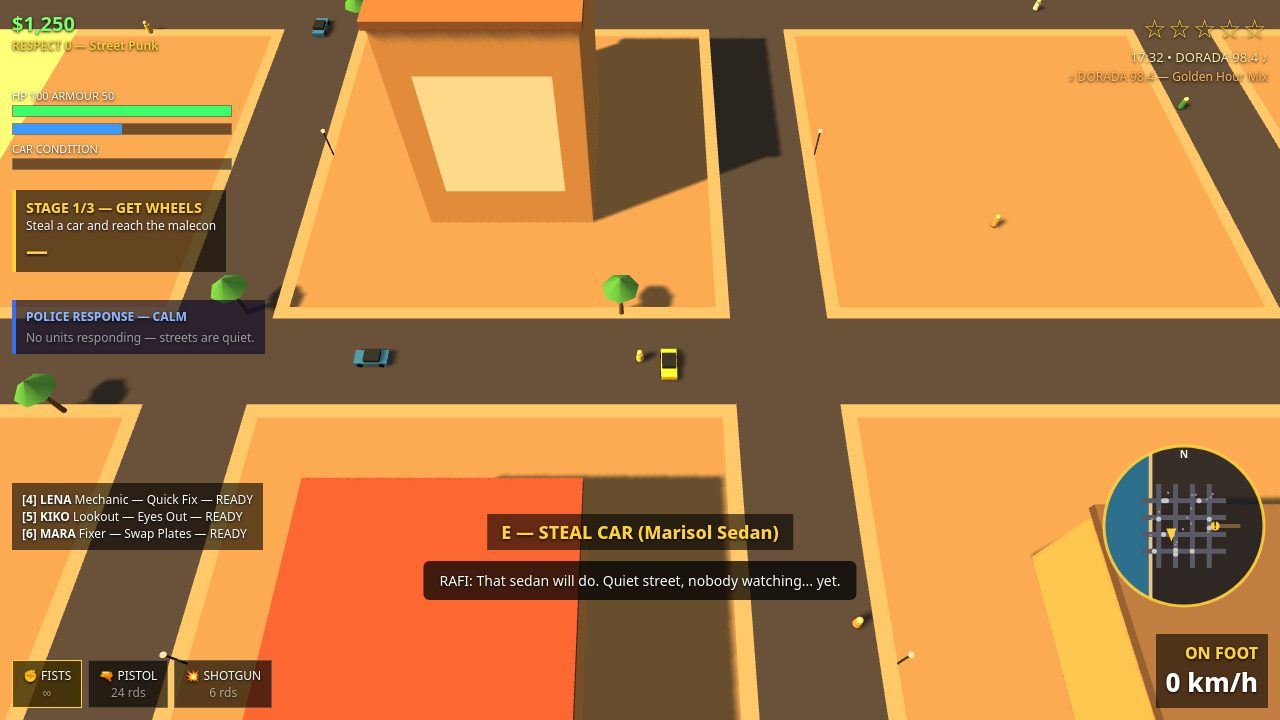
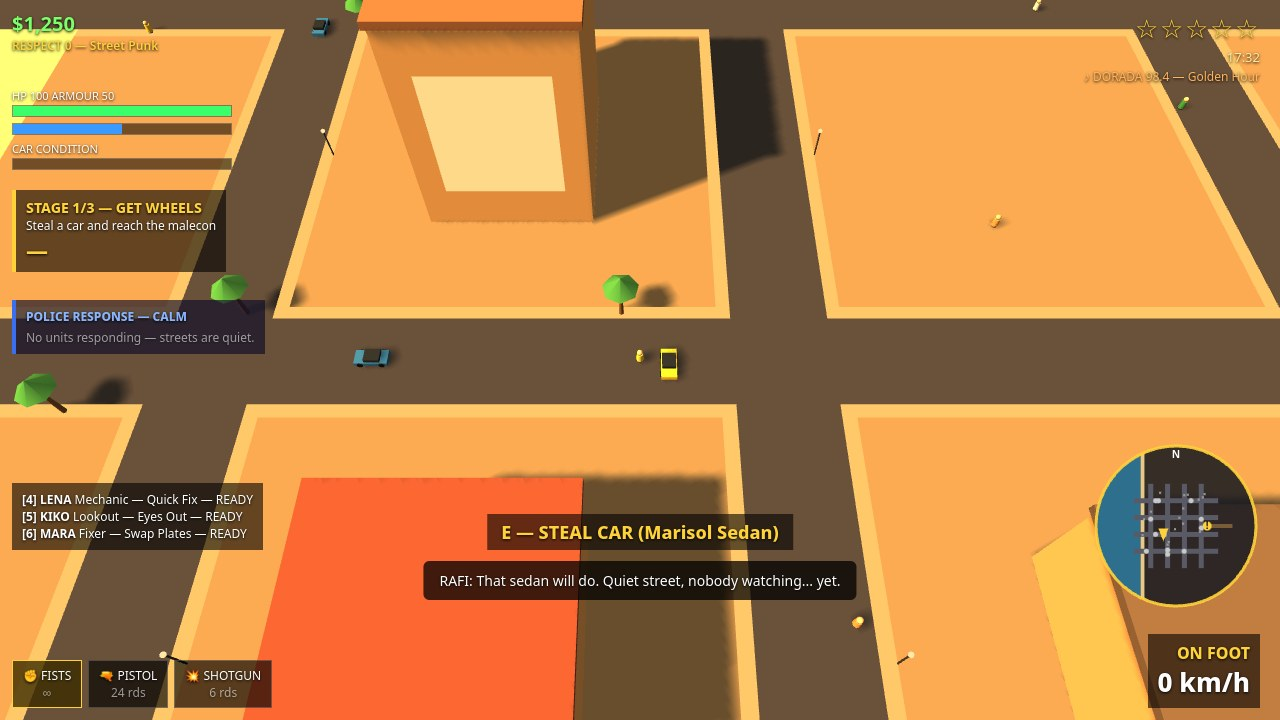
Round 3 polish: dense chaos cover, visible heli + explosion, real roadblock, HUD margin fix, honest title

diff --git a/game/src/render3d.js b/game/src/render3d.js
@@ -4,6 +4,9 @@ import { CFG, PAL } from './config.js';
 
 let renderer, scene, camera, sun, hemi, spotLight, heliLight;
 const dyn = new Map(); // id -> THREE.Group
+const fireMap = new Map(); // car id -> flame/smoke/scorch group (persistent: the
+// particle burst alone is gone a second after the blast, so a frozen
+// screenshot — and a burning wreck in play — would show no fire at all)
 let particlePts = null, particleGeo = null;
 const MAXP = 400;
 const parts = [];
@@ -70,15 +73,15 @@ export function createRenderer(canvas) {
   sun.shadow.camera.top = 260; sun.shadow.camera.bottom = -260;
   sun.shadow.camera.far = 500;
   scene.add(sun);
-  spotLight = new THREE.SpotLight(0xffffff, 0, 120, 0.35, 0.5, 1);
+  spotLight = new THREE.SpotLight(0xffffff, 0, 70, 0.22, 0.35, 1);
   scene.add(spotLight); scene.add(spotLight.target);
-  heliLight = new THREE.PointLight(0xffffff, 0, 60);
+  heliLight = new THREE.PointLight(0xffffff, 0, 35);
   scene.add(heliLight);
   // particles
   particleGeo = new THREE.BufferGeometry();
   particleGeo.setAttribute('position', new THREE.BufferAttribute(new Float32Array(MAXP * 3), 3));
   particleGeo.setAttribute('color', new THREE.BufferAttribute(new Float32Array(MAXP * 3), 3));
-  particlePts = new THREE.Points(particleGeo, new THREE.PointsMaterial({ size: 3.0, vertexColors: true }));
+  particlePts = new THREE.Points(particleGeo, new THREE.PointsMaterial({ size: 4.0, vertexColors: true, map: particleSprite(), transparent: true, depthWrite: false }));
   particlePts.frustumCulled = false;
   scene.add(particlePts);
   for (let i = 0; i < 40; i++) {
@@ -88,6 +91,17 @@ export function createRenderer(canvas) {
     scene.add(s); skidPool.push(s);
   }
   return { render };
+}
+
+function particleSprite() {
+  const cv = document.createElement('canvas'); cv.width = 64; cv.height = 64;
+  const ctx = cv.getContext('2d');
+  const g = ctx.createRadialGradient(32, 32, 0, 32, 32, 32);
+  g.addColorStop(0, 'rgba(255,255,255,1)');
+  g.addColorStop(0.4, 'rgba(255,255,255,0.8)');
+  g.addColorStop(1, 'rgba(255,255,255,0)');
+  ctx.fillStyle = g; ctx.fillRect(0, 0, 64, 64);
+  return new THREE.CanvasTexture(cv);
 }
 
 function buildStatic(S) {
@@ -157,7 +171,9 @@ export function spawnExplosion(x, z, n, rng) {
   for (let i = 0; i < n && parts.length < MAXP; i++) {
     const a = R() * Math.PI * 2, sp = 4 + R() * 14;
     parts.push({
-      x, y: 1 + R() * 2, z,
+      // born already spread over a few units: a frozen frame 0.1s after the
+      // blast would otherwise show one tight square cluster, not a fireball
+      x: x + (R() - 0.5) * 6, y: 1 + R() * 2, z: z + (R() - 0.5) * 6,
       vx: Math.cos(a) * sp, vy: 6 + R() * 12, vz: Math.sin(a) * sp,
       life: 0.7 + R() * 0.8,
       color: PAL.explosion[i % PAL.explosion.length],
@@ -167,6 +183,23 @@ export function spawnExplosion(x, z, n, rng) {
 export function addSkid(x, z, angle) {
   const s = skidPool[skidIdx++ % skidPool.length];
   s.position.set(x, 0.06, z); s.rotation.z = -angle; s.visible = true;
+}
+
+function fireGroup() {
+  const g = new THREE.Group();
+  const flame = new THREE.Mesh(new THREE.ConeGeometry(1.9, 4.6, 8),
+    new THREE.MeshBasicMaterial({ color: 0xff7a1a }));
+  flame.position.y = 2.6; g.add(flame);
+  const core = new THREE.Mesh(new THREE.ConeGeometry(1.1, 3.0, 8),
+    new THREE.MeshBasicMaterial({ color: 0xffd23a }));
+  core.position.y = 2.2; g.add(core);
+  const smoke = new THREE.Mesh(new THREE.SphereGeometry(2.3, 10, 8),
+    new THREE.MeshBasicMaterial({ color: 0x2a2a2a, transparent: true, opacity: 0.5 }));
+  smoke.position.y = 6.0; smoke.scale.y = 1.5; g.add(smoke);
+  const scorch = new THREE.Mesh(new THREE.CircleGeometry(3.6, 20),
+    new THREE.MeshBasicMaterial({ color: 0x111111, transparent: true, opacity: 0.45 }));
+  scorch.rotation.x = -Math.PI / 2; scorch.position.y = 0.08; g.add(scorch);
+  return g;
 }
 
 function syncDyn(S) {
@@ -181,12 +214,18 @@ function syncDyn(S) {
   if (!dyn.has('player')) dyn.set('player', personMesh(PAL.playerShirt, 0x2a3a5a));
   place('player', dyn.get('player'), S.player.x, S.player.z, S.player.angle, 0);
   dyn.get('player').visible = S.player.onFoot;
-  // cars (wrecks stay visible, darkened)
+  // cars (wrecks stay visible, darkened, with a persistent fireball)
   for (const c of S.cars) {
     if (!dyn.has(c.id)) dyn.set(c.id, carMesh(c.color, c.police));
     const g = dyn.get(c.id);
     place(c.id, g, c.x, c.z, c.angle, 0);
     if (c.burning || c.dead) g.children[0].material.color.setHex(0x2a2a2a);
+    if (c.burning || c.dead) {
+      if (!fireMap.has(c.id)) { const fg = fireGroup(); scene.add(fg); fireMap.set(c.id, fg); }
+      fireMap.get(c.id).position.set(c.x, 0, c.z);
+    } else if (fireMap.has(c.id)) {
+      scene.remove(fireMap.get(c.id)); fireMap.delete(c.id);
+    }
   }
   // pedestrians
   for (const p of S.peds) {
@@ -197,27 +236,36 @@ function syncDyn(S) {
   if (S.heli.active) {
     if (!dyn.has('heli')) {
       const h = new THREE.Group();
-      h.add(box(4, 1.6, 8, 0x2a2a2a, 0, 0, 0, true));
-      // rotor: translucent blur bar + faint disc, so a frozen frame never shows
-      // a solid black scratch across the player car
-      const rotorMat = new THREE.MeshBasicMaterial({ color: 0x222222, transparent: true, opacity: 0.45 });
-      const rotor = new THREE.Mesh(new THREE.BoxGeometry(12, 0.15, 0.8), rotorMat);
+      // police heli: dark navy body + white roof stripe + blue glass + tail
+      // boom, so it reads as a helicopter from above. The old pale-grey box
+      // rendered as a cream slab and blended into roofs and sand.
+      h.add(box(4, 1.6, 6, 0x1a2a4a, 0, 0, 1, true));
+      h.add(box(3.2, 1.0, 1.8, 0x9fd8ff, 0, 0.4, 3.2, false));
+      h.add(box(2.0, 0.25, 5.0, 0xffffff, 0, 0.9, 0.5, false));
+      h.add(box(1.0, 0.8, 7, 0x1a2a4a, 0, 0.1, -5.5, true));
+      h.add(box(0.3, 2.0, 1.6, 0x1a2a4a, 0, 0.6, -8.6, false));
+      // rotor: stronger blur bar + disc, so the rotor reads at jury size
+      const rotorMat = new THREE.MeshBasicMaterial({ color: 0x222222, transparent: true, opacity: 0.6 });
+      const rotor = new THREE.Mesh(new THREE.BoxGeometry(13, 0.15, 0.8), rotorMat);
       rotor.position.set(0, 1.1, 0); rotor.name = 'rotor'; h.add(rotor);
-      const disc = new THREE.Mesh(new THREE.CircleGeometry(6, 24),
-        new THREE.MeshBasicMaterial({ color: 0x222222, transparent: true, opacity: 0.12, side: THREE.DoubleSide }));
+      const disc = new THREE.Mesh(new THREE.CircleGeometry(6.5, 24),
+        new THREE.MeshBasicMaterial({ color: 0x222222, transparent: true, opacity: 0.18, side: THREE.DoubleSide }));
       disc.rotation.x = -Math.PI / 2; disc.position.y = 1.12; h.add(disc);
-      h.add(box(1, 1, 1, 0xffffff, 0, -1, 3, false));
       dyn.set('heli', h);
     }
     const h = dyn.get('heli');
-    place('heli', h, S.heli.x, S.heli.z, S.heli.angle, 26);
+    // heli flies at 20, not 26: at 26 it sits above the camera's top edge
+    // (view axis ~60° down, half-FOV 25°) and is invisible in every shot
+    place('heli', h, S.heli.x, S.heli.z, S.heli.angle, 20);
     const rotor = h.getObjectByName('rotor');
     if (rotor) rotor.rotation.y += 0.9;
-    spotLight.position.set(S.heli.x, 26, S.heli.z);
+    spotLight.position.set(S.heli.x, 20, S.heli.z);
     spotLight.target.position.set(S.player.x, 0, S.player.z);
-    spotLight.intensity = 2.2;
-    heliLight.position.set(S.heli.x, 24, S.heli.z);
-    heliLight.intensity = 1.2;
+    // small, dim pool: the old 2.2 / wide cone bleached the player car
+    // to a white blob at wanted 5
+    spotLight.intensity = 0.9;
+    heliLight.position.set(S.heli.x, 18, S.heli.z);
+    heliLight.intensity = 0.45;
   } else {
     spotLight.intensity = 0; heliLight.intensity = 0;
     if (dyn.has('heli')) dyn.get('heli').visible = false;

diff --git a/game/src/shots.js b/game/src/shots.js
@@ -94,34 +94,44 @@ export function stageShot(name, S) {
   S.dialog = 'LENA: Two minutes left on the clock, Rafi — and the whole CDPD is behind you!';
   S.dialogTimer = 99;
   if (name === 'chaos') {
-    driveToward(S, CFG.maleconX - 4, 44, 60 * 12);
-    // final framing on the malecon: Rafi in the car at speed, a wreck exploding
-    // beside him, chase units closing in, heli spotlight overhead
+    // dense-street staging: the x=40 / z=40 intersection, buildings on three
+    // corners, no empty sand in frame, camera close — the old malecon framing
+    // was ~60% bare sand with Rafi a speck inside the spotlight blob
     if (!S.playerCar) stealNearest(S);
     const pc = S.playerCar;
     if (pc) {
-      pc.x = 140; pc.z = 36; pc.angle = Math.PI / 2; pc.speed = 20; pc.health = 62;
+      pc.x = 28; pc.z = 40; pc.angle = Math.PI / 2; pc.speed = 18; pc.health = 62;
       S.player.x = pc.x; S.player.z = pc.z; S.player.angle = pc.angle;
     }
     const victim = S.cars.find((c) => !c.dead && !c.police && c !== S.playerCar);
     if (victim) {
-      victim.x = 152; victim.z = 50; victim.angle = 0.4;
+      victim.x = 45; victim.z = 35; victim.angle = 0.3; victim.speed = 0;
       explodeCar(S, victim);
       spawnExplosion(victim.x, victim.z, 90, S.rng);
     }
+    // traffic in frame: oncoming car on the z=40 road, cross traffic on x=40
+    const extras = S.cars.filter((c) => !c.dead && !c.police && c !== S.playerCar && c !== victim);
+    if (extras[0]) { extras[0].x = 60; extras[0].z = 40; extras[0].angle = -Math.PI / 2; extras[0].speed = 10; }
+    if (extras[1]) { extras[1].x = 40; extras[1].z = 64; extras[1].angle = 0; extras[1].speed = 8; }
+    if (extras[2]) { extras[2].x = 40; extras[2].z = 16; extras[2].angle = Math.PI; extras[2].speed = 8; }
     S.wanted = 5;
     S.stage = 2; S.stageTimer = 114;
     S.heli.active = true;
-    S.heli.x = S.player.x + 12; S.heli.z = S.player.z - 10;
-    // two chase units right behind Rafi so the pursuit reads in frame
-    const chasers = S.police.filter((c) => c.role !== 'roadblock' && !c.dead).slice(0, 2);
-    chasers.forEach((c, i) => { c.x = 122 + i * 4; c.z = 28 + i * 18; c.angle = Math.PI / 2; c.speed = 16; });
+    // close overhead, inside the camera's top edge (frustum check: at the old
+    // +12/-16 offset the heli sat above the frame and never showed)
+    S.heli.x = S.player.x + 6; S.heli.z = S.player.z - 8;
+    // four chase units closing in, so the pursuit reads in frame (the panel
+    // lists four units — all four should be visible, not two near + two 100m out)
+    const chasers = S.police.filter((c) => c.role !== 'roadblock' && !c.dead).slice(0, 4);
+    [[10, 40], [14, 31], [6, 49], [22, 28]].forEach(([x, z], i) => {
+      const c = chasers[i]; if (!c) return;
+      c.x = x; c.z = z; c.angle = Math.PI / 2; c.speed = 16;
+    });
     S.money = 48250;
     S.player.health = 78; S.player.armour = 35;
-    // frame the action: look south-east of the player so Rafi sits upper-left
-    // and the explosion sits near the centre of the frame, clear of the dialog bar
-    S.cam.x = S.player.x + 12; S.cam.z = S.player.z + 25;
     settle(S, 2);
+    // camera LAST: settle() drifts it toward the player via updateCamera
+    S.cam.x = 36; S.cam.z = 46; S.cam.height = 58; S.cam.back = 34;
     return;
   }
   if (name === 'roadblock') {
@@ -130,7 +140,6 @@ export function stageShot(name, S) {
     S.dialogTimer = 99;
     S.wanted = 5;
     S.heli.active = true;
-    S.heli.x = S.player.x + 10; S.heli.z = S.player.z - 8;
     S.muzzle = 0.08;
     S.weapons[1].ammo = 9;
     S.weaponIdx = 1;
@@ -140,25 +149,36 @@ export function stageShot(name, S) {
     driveRoute(S, [[148, 0]], 60 * 10);
     // final framing at the pier mouth: Rafi's car facing the roadblock, pistol out,
     // muzzle flash frozen, heli spotlight overhead, Don Celso's line on screen.
-    // Camera sits close over the roadblock so the three units fill the centre
-    // of the frame instead of reading as distant specks.
     if (!S.playerCar) stealNearest(S);
     const pc = S.playerCar;
     if (pc) {
-      pc.x = 132; pc.z = 0; pc.angle = Math.PI / 2; pc.speed = 14; pc.health = 38;
+      pc.x = 130; pc.z = 0; pc.angle = Math.PI / 2; pc.speed = 12; pc.health = 38;
       S.player.x = pc.x; S.player.z = pc.z; S.player.angle = pc.angle;
     }
     S.player.health = 46; S.player.armour = 12;
+    // a real roadblock: a solid wall of four CDPD units side by side across
+    // the pier-mouth road (z -13..13), noses across the road — the old
+    // diagonal scatter (x stepped with z) read as parked cars, not a block
     const blocks = S.police.filter((c) => c.role === 'roadblock' && !c.dead);
-    blocks.forEach((c, i) => {
-      c.x = 150 + (i % 2) * 4; c.z = -8 + i * 8; c.angle = Math.PI / 2; c.speed = 0;
+    const chasers = S.police.filter((c) => c.role !== 'roadblock' && !c.dead);
+    while (blocks.length < 4 && chasers.length) {
+      const c = chasers.shift();
+      c.role = 'roadblock'; c.blocking = true;
+      c.unit = 'CDPD-58'; // unit names cycle over 6 spawns; a converted chaser
+      blocks.push(c); // would otherwise duplicate a name in the panel
+    }
+    blocks.slice(0, 4).forEach((c, i) => {
+      c.x = 152; c.z = -10.5 + i * 7; c.angle = 0; c.speed = 0; c.blocking = true;
     });
-    const chasers = S.police.filter((c) => c.role !== 'roadblock' && !c.dead).slice(0, 2);
-    chasers.forEach((c, i) => { c.x = 118 + i * 6; c.z = -14 + i * 28; c.angle = Math.PI / 2; });
+    // remaining chasers close in behind Rafi
+    chasers.slice(0, 2).forEach((c, i) => { c.x = 114 + i * 4; c.z = -6 + i * 12; c.angle = Math.PI / 2; c.speed = 14; });
+    // roadblock units first, so the response panel names the block, not chasers
+    S.police.sort((a, b) => (a.role === 'roadblock' ? 0 : 1) - (b.role === 'roadblock' ? 0 : 1));
+    S.heli.x = 132; S.heli.z = -6; // right over Rafi on open road, clear of roofs
     S.muzzle = 5;
-    // frame the action: look east so Rafi sits left and the roadblock fills the centre
-    S.cam.x = 146; S.cam.z = 0; S.cam.height = 68; S.cam.back = 42;
     settle(S, 2);
+    // camera LAST: settle() drifts it toward the player via updateCamera
+    S.cam.x = 144; S.cam.z = 2; S.cam.height = 50; S.cam.back = 28;
     return;
   }
   // results

diff --git a/game/index.html b/game/index.html
@@ -11,9 +11,9 @@
   #hud-top { top: 10px; left: 12px; font-size: 20px; font-weight: 700; }
   #hud-money { color: #7dff6a; }
   #hud-respect { font-size: 12px; color: #ffd23a; font-weight: 600; }
-  #hud-wanted { top: 10px; right: 12px; font-size: 26px; letter-spacing: 2px; text-align: right; }
-  #hud-clock { top: 48px; right: 12px; font-size: 13px; text-align: right; color: #ffe9a8; }
-  #hud-radio { top: 68px; right: 12px; font-size: 12px; text-align: right; color: #ffb45e; }
+  #hud-wanted { top: 10px; right: 20px; font-size: 26px; letter-spacing: 2px; text-align: right; }
+  #hud-clock { top: 48px; right: 20px; font-size: 13px; text-align: right; color: #ffe9a8; }
+  #hud-radio { top: 68px; right: 20px; font-size: 12px; text-align: right; color: #ffb45e; }
   #hud-bars { top: 88px; left: 12px; width: 220px; font-size: 11px; }
   .bar { height: 10px; background: rgba(0,0,0,.55); border: 1px solid #fff3; margin: 2px 0 6px; }
   .bar > div { height: 100%; }
@@ -30,15 +30,15 @@
   #hud-weapons { bottom: 12px; left: 12px; display: flex; gap: 6px; }
   .wslot { background: rgba(0,0,0,.65); border: 1px solid #fff3; padding: 6px 10px; font-size: 12px; text-align: center; }
   .wslot.active { border-color: #ffd23a; background: rgba(60,45,0,.8); }
-  #hud-carbox { bottom: 12px; right: 12px; text-align: right; background: rgba(0,0,0,.6); padding: 8px 10px; }
+  #hud-carbox { bottom: 12px; right: 20px; text-align: right; background: rgba(0,0,0,.6); padding: 8px 10px; }
   #hud-car { font-weight: 800; color: #ffd23a; }
   #hud-speed { font-size: 26px; font-weight: 800; }
   #hud-dialog { bottom: 120px; left: 50%; transform: translateX(-50%); max-width: 640px; background: rgba(0,0,0,.75); padding: 10px 16px; font-size: 14px; border-radius: 6px; text-align: center; }
   #hud-crewmsg { bottom: 84px; left: 50%; transform: translateX(-50%); background: rgba(0,40,0,.75); padding: 6px 12px; font-size: 13px; color: #7dff6a; }
   #hud-prompt { bottom: 170px; left: 50%; transform: translateX(-50%); font-size: 18px; font-weight: 800; color: #ffd23a; background: rgba(0,0,0,.6); padding: 6px 14px; }
-  #hud-muzzle { top: 40%; left: 58%; width: 26px; height: 26px; background: radial-gradient(circle, #fff 0%, #ffd23a 40%, transparent 70%); display: none; }
+  #hud-muzzle { top: 40%; left: 58%; width: 44px; height: 44px; background: radial-gradient(circle, #fff 0%, #ffd23a 40%, transparent 70%); display: none; }
   .dim { opacity: .55; }
-  #minimap { position: fixed; right: 12px; bottom: 110px; width: 168px; height: 168px; z-index: 5; }
+  #minimap { position: fixed; right: 20px; bottom: 110px; width: 168px; height: 168px; z-index: 5; }
   .screen { position: fixed; inset: 0; z-index: 10; display: flex; flex-direction: column; align-items: center; justify-content: center; background: linear-gradient(180deg, rgba(40,10,0,.88), rgba(10,5,20,.92)); color: #fff; text-align: center; }
   .screen h1 { font-size: 54px; margin: 0; color: #ffd23a; letter-spacing: 4px; }
   .screen h2 { font-size: 20px; color: #ffb45e; margin: 6px 0 18px; font-weight: 600; }

diff --git a/game/src/hud.js b/game/src/hud.js
@@ -17,8 +17,10 @@ export function updateHud(S) {
   $('hud-respect').textContent = 'RESPECT ' + S.respect + ' — ' + RANKS[Math.min(S.save.rank, RANKS.length - 1)];
   $('hud-wanted').textContent = stars(S.wanted);
   $('hud-wanted').style.color = S.wanted >= 4 ? '#ff3a3a' : '#ffd23a';
-  $('hud-clock').textContent = clockStr(S.clockMin) + '  •  DORADA 98.4 ♪';
-  $('hud-radio').textContent = S.radioOn ? '♪ DORADA 98.4 — Golden Hour Mix' : 'RADIO OFF (R)';
+  // clock is just the time now; the station name lives on the radio line
+  // below, so neither line runs to the right edge any more
+  $('hud-clock').textContent = clockStr(S.clockMin);
+  $('hud-radio').textContent = S.radioOn ? '♪ DORADA 98.4 — Golden Hour' : 'RADIO OFF (R)';
   $('hud-health').style.width = Math.max(0, S.player.health) + '%';
   $('hud-armour').style.width = Math.max(0, S.player.armour) + '%';
   $('hud-hp-text').textContent = 'HP ' + Math.ceil(S.player.health) + '  ARMOUR ' + Math.ceil(S.player.armour);

diff --git a/game/src/main.js b/game/src/main.js
@@ -30,6 +30,8 @@ function paint() {
     pcx: S.playerCar ? Math.round(S.playerCar.x) : null,
     pcz: S.playerCar ? Math.round(S.playerCar.z) : null,
     camx: Math.round(S.cam.x), camz: Math.round(S.cam.z),
+    missionDone: S.missionDone,
+    heli: S.heli.active ? [Math.round(S.heli.x), Math.round(S.heli.z)] : null,
     wanted: S.wanted, stage: S.stage, screen: S.screen,
     deadPos: S.cars.filter((c) => c.dead).map((c) => [Math.round(c.x), Math.round(c.z)]),
     ang: S.playerCar ? S.playerCar.angle : S.player.angle,

diff --git a/game/src/police.js b/game/src/police.js
@@ -99,8 +99,10 @@ export function stepPolice(S, dt) {
   }
 }
 export function policePanel(S) {
+  // distance is computed live: blocking (roadblock) units never run the
+  // chase step that refreshes c.dist, so the panel showed stale 0m / 253m
   return S.police.filter((c) => !c.dead).slice(0, 4).map((c) => ({
     unit: c.unit, role: c.role.toUpperCase(),
-    dist: Math.round(c.dist || 0) + 'm',
+    dist: Math.round(Math.hypot(S.player.x - c.x, S.player.z - c.z)) + 'm',
   }));
 }

diff --git a/README.md b/README.md
@@ -1,12 +1,15 @@
-# CALA DORADA — The Last Boat
+# CALA DORADA: 2.5D top-down open-world crime — 1 deep mission, 5-star CDPD dispatch, helicopter & roadblocks, carjacking, garage upgrades, minimap, saves, radio
 
 [![make.fun competition](https://img.shields.io/badge/make.fun-gta6--01-orange)](https://make.fun/competitions/gta6-01)
 [![make.fun rank](https://img.shields.io/badge/make.fun-rank-top--100-blue)](https://make.fun/competitions/gta6-01)
 [![make.fun reward](https://img.shields.io/badge/make.fun-reward-%241%2C666-green)](https://make.fun/competitions/gta6-01)
 
-Open-world crime, 2.5D top-down, in a fictional golden-hour coastal city. Rafi Soler,
-ex-wheelman, has one last job: steal wheels, shake the CDPD, and reach the boat before
-Don Celso closes the docks.
+2.5D top-down open-world crime in a fictional golden-hour coastal city. One deep
+mission — THE LAST BOAT, in 3 stages — under a 5-star CDPD dispatch with helicopter
+and roadblocks: steal wheels, shake the pursuit, and reach the boat before Don Celso
+closes the docks. Carjacking, garage upgrades, a circular minimap, localStorage
+saves and a WebAudio radio (DORADA 98.4) round out the city. Rafi Soler, ex-wheelman,
+has one last job — Lena fixes, Kiko watches, Mara swaps the plates.
 
 ## The mission — THE LAST BOAT (3 stages)
 
